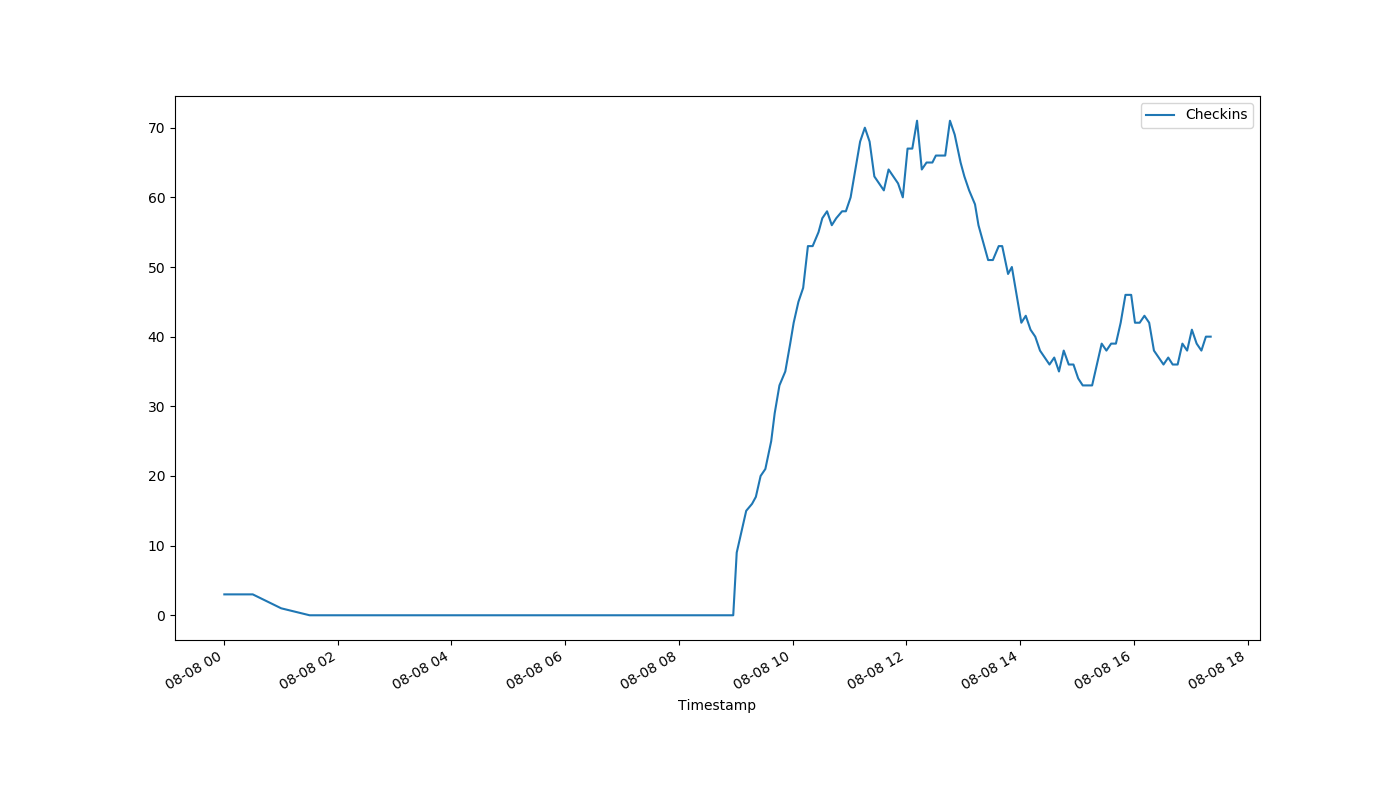
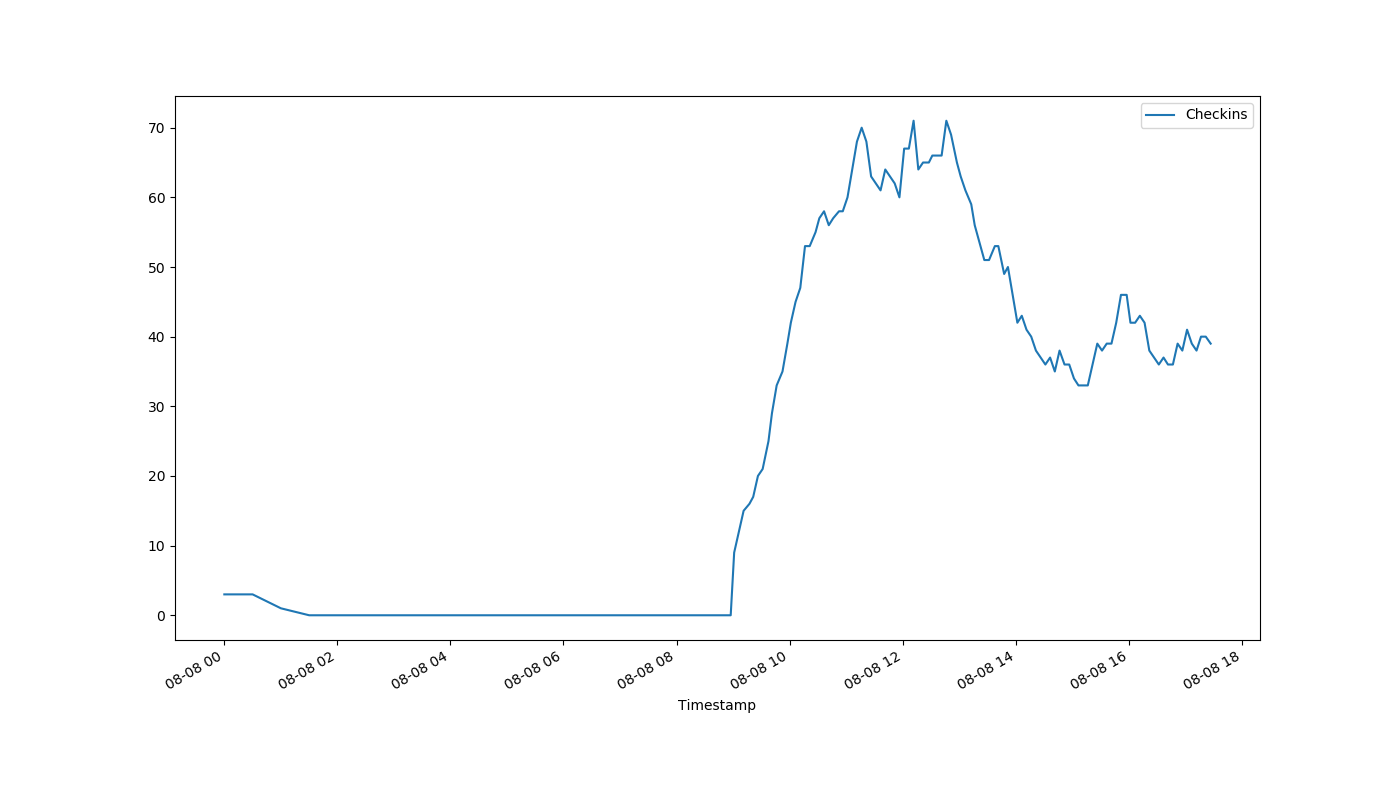
auto-Aug-08-17:28:09

diff --git a/index.html b/index.html
@@ -1,1 +1,1 @@
-<!DOCTYPE html><html><head><meta http-equiv="refresh" content="30"><link rel='stylesheet' href='holmcurrent.css'></head><body><p id='count'>40</p><div id='graph-wrap'><img id='graph' src='holmgraph-Aug-08.png'></div><p id='updated'>Last updated 17:22:03 / 17:21:06</p></body></html>
+<!DOCTYPE html><html><head><meta http-equiv="refresh" content="30"><link rel='stylesheet' href='holmcurrent.css'></head><body><p id='count'>39</p><div id='graph-wrap'><img id='graph' src='holmgraph-Aug-08.png'></div><p id='updated'>Last updated 17:27:03 / 17:26:19</p></body></html>
